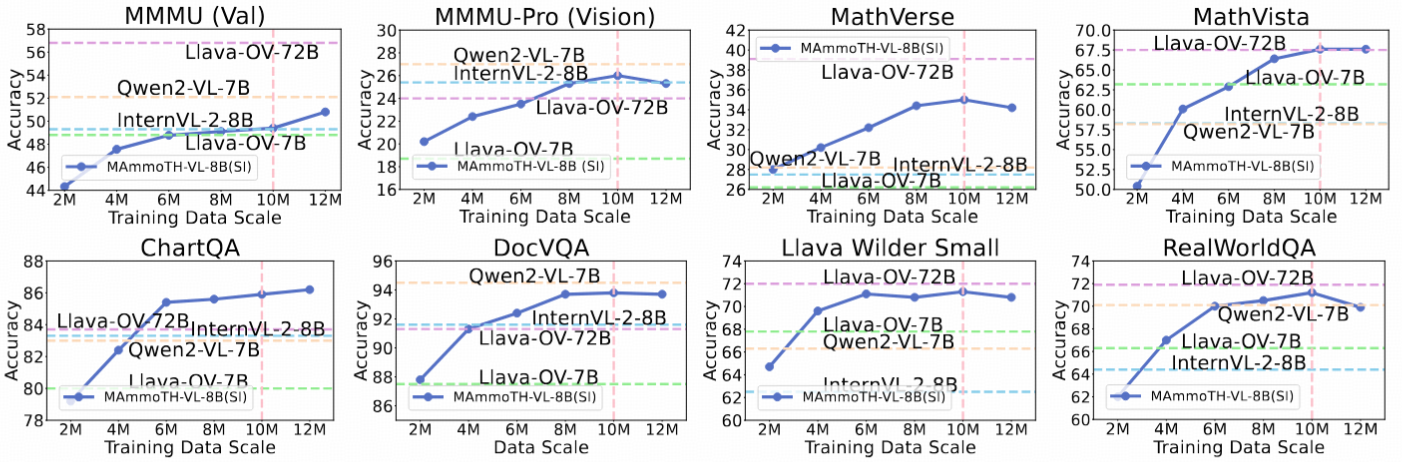
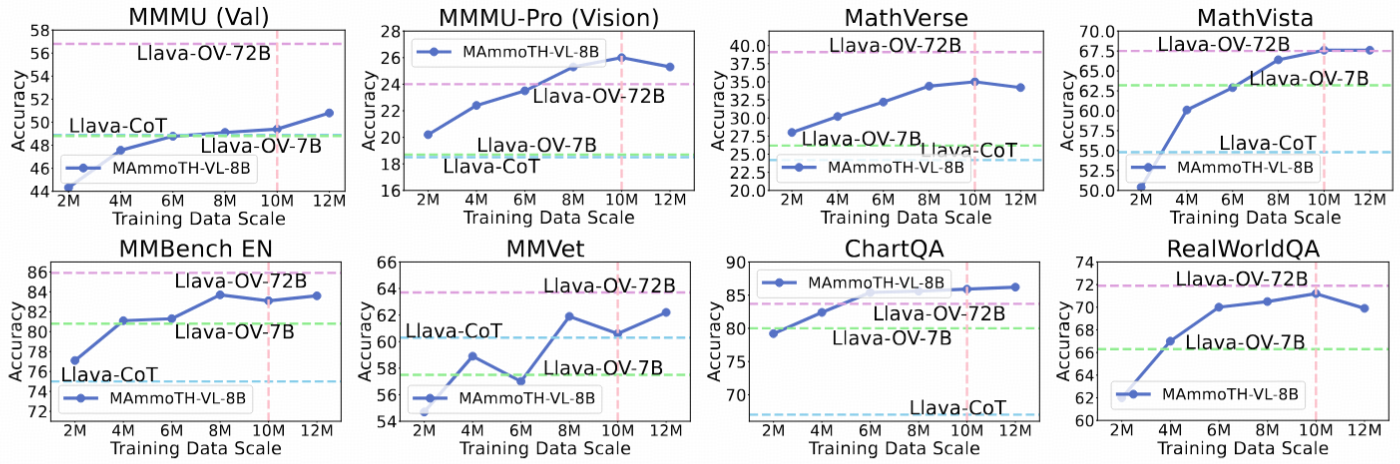
v1

Changed region(s): [[0.0, 0.5152, 1.0, 1.0], [0.0, 0.0, 1.0, 0.4848]]

diff --git a/index.html b/index.html
@@ -100,35 +100,35 @@
                     <div class="column has-text-centered">
                         <!-- <h1 class="title is-1 publication-title">🦣 MAmmoTH-VL: <br>Scaling Synthetic Multimodal Instruction Data with Open Models</h1> -->
                         <h1 class="title is-1 publication-title">
-                            <img src="static/images/mammoth_vl.png" alt="Mammoth Icon" style="vertical-align: -2px; width: 60px; height: 40px;"> MAmmoTH-VL: <br>Scaling Synthetic Multimodal Instruction Data with Open Models
+                            <img src="static/images/mammoth_vl.png" alt="Mammoth Icon" style="vertical-align: -2px; width: 60px; height: 40px;"> MAmmoTH-VL: <br>Eliciting Multimodal Reasoning with Instruction Tuning at Scale
                           </h1>
                           
                         <div class="is-size-5 publication-authors">
                             <!-- Paper authors -->
                 <span class="author-block">
-                    <sup>1</sup><a href="" target="_blank">Jarvis Guo</a><sup>*</sup>,</span>
+                    <a href="" target="_blank">Jarvis Guo</a><sup>♣*</sup>,</span>
                 <span class="author-block">
-                    <sup>1</sup><a href="" target="_blank">Tuney Zheng</a><sup>*</sup>,</span>
+                    <a href="" target="_blank">Tuney Zheng</a><sup>♣*</sup>,</span>
                 <span class="author-block">
-                        <sup>1</sup><a href="" target="_blank">Yuelin Bai</a>,</span>
+                        <a href="" target="_blank">Yuelin Bai</a><sup>♣</sup>,</span>
                 <span class="author-block">
-                        <sup>3</sup><a href="" target="_blank">Bo Li</a>
+                        <a href="" target="_blank">Bo Li</a><sup>△</sup>
                 </span>
                 <br>
                 <span class="author-block">
-                    <sup>4</sup><a href="" target="_blank">Yubo Wang</a>,</span>
+                    <a href="" target="_blank">Yubo Wang</a><sup>♡</sup>,</span>
                 <span class="author-block">
-                    <sup>1</sup><a href="" target="_blank">King Zhu</a>,</span>
+                    <a href="" target="_blank">King Zhu</a><sup>♣</sup>,</span>
                 <span class="author-block">
-                    <sup>5</sup><a href="" target="_blank">Yizhi Li</a>,
+                    <a href="" target="_blank">Yizhi Li</a><sup>♢</sup>,
                 </span>
                 <br>
                 <span class="author-block">
-                    <sup>2</sup><a href="" target="_blank">Graham Neubig</a>,</span>
+                    <a href="" target="_blank">Graham Neubig</a><sup>♠</sup>,</span>
                 <span class="author-block">
-                    <sup>4</sup><a href="https://wenhuchen.github.io/" target="_blank">Wenhu Chen</a>,</span>
+                    <a href="https://wenhuchen.github.io/" target="_blank">Wenhu Chen</a><sup>♡</sup>,</span>
                 <span class="author-block">
-                    <sup>2</sup><a href="https://xiangyue9607.github.io/" target="_blank">Xiang Yue</a>,
+                    <a href="https://xiangyue9607.github.io/" target="_blank">Xiang Yue</a><sup>♠†</sup>,
                 </span>
                         </div>
 
@@ -136,12 +136,12 @@
 
                 <div class="is-size-5 publication-authors">
                     <span class="author-block">
-                        <sup>1</sup>M-A-P,
-                        <sup>2</sup>Carnegie Mellon University,
-                        <sup>3</sup>Nanyang Technological University,
+                        <sup>♠</sup>Carnegie Mellon University,
+                        <sup>♣</sup>M-A-P,
+                        <sup>△</sup>Nanyang Technological University,
                         <br>
-                        <sup>4</sup>University of Waterloo,
-                        <sup>5</sup>The University of Manchester
+                        <sup>♡</sup>University of Waterloo,
+                        <sup>♢</sup>The University of Manchester
                         <br>
                     <!-- <span class="eql-cntrb"><small><sup>*</sup>Xiang Yue and Wenhu Chen are the leading authors of the project. They contributed equally to this project.</small></span> -->
                             <span class="author-block"><a href="mailto:xyue2@andrew.cmu.edu">xyue2@andrew.cmu.edu</a>
@@ -221,10 +221,9 @@
                 <div class="column has-text-centered">
                     <h2 class="title is-3">Abstract</h2>
                     <div class="content has-text-justified">
-                        <p>
-                            Multimodal Large Language Models (MLLMs) have integrated modality alignment and visual instruction tuning to excel in tasks like captioning and visual question-answering. Despite their potential, MLLMs often struggle with real-world applications due to the homogeneity and simplicity of training datasets. Addressing these challenges, we propose a simple, scalable yet effective approach that leverages open-source models for synthesizing high-quality, diverse instruction training data, aligning closely with human preferences and complex real-world scenarios. We introduce the MAmmoTH-VL-12M dataset, a collection of 12 million multimodal instructions, across 10 task-specific categories. Experimental results show that training an MLLM, MAmmoTH-VL-8B on this dataset enhances performance in various visual reasoning, OCR, chart understanding, document understanding, and interaction tasks. Our method demonstrates a cost-effective alternative for high-quality multimodal data creation in the open-source community.                        </p>
-
-<p>
+                            <p>
+                                Open-source multimodal large language models (MLLMs) have shown significant potential in a broad range of multimodal tasks. However, their reasoning capabilities remain constrained by existing instruction-tuning datasets, which were predominately repurposed from academic datasets such as VQA, AI2D, and ChartQA. These datasets target simplistic tasks, and only provide phrase-level answers without any intermediate rationales. To address these challenges, we introduce a \textit{scalable and cost-effective method} to construct a \textit{large-scale multimodal instruction-tuning dataset with rich intermediate rationales designed to elicit CoT reasoning}. Using only open models, we create a dataset containing 12M instruction-response pairs to cover diverse, reasoning-intensive tasks with detailed and faithful rationales. Experiments demonstrate that training MLLMs on this dataset significantly improves reasoning capabilities, achieving state-of-the-art performance on benchmarks such as MathVerse (+8.1%), MMMU-Pro (+7%), and MuirBench (+13.3%). Additionally, the model demonstrates notable improvements of up to 4% on non-reasoning-based benchmarks. Ablation studies further highlight the importance of key components, such as rewriting and self-filtering, in the dataset construction process.
+                            <p>
     <!-- Image1 carousel -->
         
     <!-- <section class="hero">
@@ -234,8 +233,8 @@
                     <div class="column is-four-fifths"> -->
                         <div class="item">
                             <img src="static/images/mammoth_vl_overview.png" alt="Hybrid Instruction Tuning of MAmmoTH2-Plus" style="width: 100%; height: auto;" />
-                            <h2 class="subtitle" style="font-size: 16px; text-align: center; color: #888888;font-weight: normal;">
-                                Figure 1: Overview of MAmmoTH-VL.
+                            <h2 class="subtitle" style="font-size: 16px; color: #888888;font-weight: normal;">
+                                Figure 1: Up shows overview of our simple but scalable visual instruction data rewriting pipeline, comprising three main steps. First, we manually collect and identify potential data sources. Second, we rewrite the original instruction data using open MLLMs and LLMs. Finally, we employ the same MLLM as a judge to filter the data. Below shows examples comparing pre- and post-rewriting results in two categories: Math and Caption, demonstrating how the pipeline transforms basic questions into detailed, step-by-step responses.
                             </h2>
                         </div>
                     <!-- </div>
@@ -317,16 +316,16 @@
                     
                     <div class="content has-text-justified">
                         <p>
-                            Existing efforts have demonstrated the potential of visual instruction tuning, they often rely on resource-intensive approaches, such as human annotations or proprietary models, limiting their scalability and accessibility, especially in open-source contexts. To solve this, we present a simple, scalable, and cost-effective data generation pipeline to construct 12M high-quality samples. Our approach includes three key steps: 
+                            While previous efforts have highlighted the potential of visual instruction tuning, many rely on resource-intensive methods such as human annotations or proprietary models. These approaches limit scalability and accessibility, particularly in open-source contexts. To address these challenges, we introduce a simple, scalable, and cost-effective data generation pipeline that produces 12 million high-quality samples. Our pipeline involves three key steps:    
                         </p>
                         <p>
-                            (1) comprehensive open-source data curation and categorization
+                            (1) open-source data collection and categorization
                         </p>
                         <p>
-                            (2) task-aware data augmentation and rewriting with open models
+                            (2) task-specific data augmentation and rewriting using open models
                         </p>
                         <p>
-                            (3) rigorous quality filtering to eliminate hallucinated or irrelevant content. 
+                            (3) quality filtering to remove hallucinated or irrelevant content
                         </p>
 <!-- Image3 carousel -->
     
@@ -339,7 +338,7 @@
                         <!-- Displaying an Image of Hybrid Instruction Tuning -->
                         <img src="static/images/mammoth_vl_12M.png" alt="Hybrid Instruction Tuning of MAmmoTH2-Plus" style="width: 100%; height: auto;" />
                         <h2 class="subtitle" style="font-size: 16px; text-align: center; color: #888888;font-weight: normal;">
-                            Figure 2: Overview of MAmmoTH-VL-12M.
+                            Figure 2: The data distribution of MAmmoTH-VL-Instruct (12M). Left: Category distribution. Right: Details of data sources.
                         </h2>
                     </div>
                 <!-- </div>
@@ -359,7 +358,7 @@
                     
                     <div class="content has-text-justified">
                         <p>
-                            To reveal the generality and effectiveness of model, we comprehensively evaluate our model across different modalities, including single-image, multi-image, and video benchmarks.We denote the model checkpoint trained after the single-image stage and one-vision stage as MAmmoTH-VL-8B(SI) and MAmmoTH-VL-8B.We conduct standardized, reproducible evaluations of our model across all benchmarks using LMMs-Eval. To ensure a fair comparison with other MLLMs, we primarily report results from the original papers. When results are unavailable, we onboard the models in LMMs-Eval and evaluate them using consistent settings. All results are reported using greedy decoding and zero-shot settings unless otherwise specified.    
+                            To reveal the generality and effectiveness of the model, we comprehensively evaluate it across different scenarios, including single-image, multi-image, and video benchmarks. Detailed results are presented in Table 1, Table 2 and Table 3, respectively. We denote the model checkpoint that completed the single-image stage and one-vision stage as MAmmoTH-VL-8B (SI) and MAmmoTH-VL-8B. We conduct standardized, reproducible evaluations of our model across all 23 benchmarks using LMMs-Eval. To ensure a fair comparison with other MLLMs, we primarily report results from the original papers. When results are unavailable, we onboard the models in LMMs-Eval and evaluate them using consistent settings. All results are reported using greedy decoding and zero-shot settings unless specified.
                         </p>
 <!-- Image3 carousel -->
 
@@ -394,17 +393,6 @@
             <td style="text-align: center;">50.2</td>
             <td style="text-align: center;">63.8</td>
         </tr>
-        <!-- <tr style="background-color: #f2f2f2;">
-            <td>GPT-4v</td>
-            <td style="text-align: center;">57.1</td>
-            <td style="text-align: center;">56.8</td>
-            <td style="text-align: center;">-</td>
-            <td style="text-align: center;">49.9</td>
-            <td style="text-align: center;">77.0</td>
-            <td style="text-align: center;">58.6</td>
-            <td style="text-align: center;">32.8</td>
-            <td style="text-align: center;">49.9</td>
-        </tr> -->
         <tr style="background-color: #f2f2f2;">
             <td>Gemini-1.5-Pro</td>
             <td style="text-align: center;">59.1</td>
@@ -453,7 +441,7 @@
             <td style="text-align: center;">70.5</td>
         </tr>
         <tr style="background-color: #e0f7e0;">
-            <td>LLaVA-OV-72B(Single Image)</td>
+            <td>LLaVA-OV-72B (SI)</td>
             <td style="text-align: center;">65.2</td>
             <td style="text-align: center;">57.4</td>
             <td style="text-align: center;">26.0</td>
@@ -500,6 +488,17 @@
             <td style="text-align: center;">59.6</td>
         </tr>
         <tr style="background-color: #cce0ff;">
+            <td>Llama-3.2-11B-Vision-Ins</td>
+            <td style="text-align: center;">49.8</td>
+            <td style="text-align: center;">50.7</td>
+            <td style="text-align: center;">23.7</td>
+            <td style="text-align: center;">72.7</td>
+            <td style="text-align: center;">73.2</td>
+            <td style="text-align: center;">57.6</td>
+            <td style="text-align: center;">23.6</td>
+            <td style="text-align: center;">51.5</td>
+        </tr>
+        <tr style="background-color: #cce0ff;">
             <td>InternVL-2-8B</td>
             <td style="text-align: center;">59.4</td>
             <td style="text-align: center;">49.3</td>
@@ -511,7 +510,7 @@
             <td style="text-align: center;">58.3</td>
         </tr>
         <tr style="background-color: #cce0ff;">
-            <td>Qwen2-VL-7B</td>
+            <td>Qwen2-VL-7B-Ins</td>
             <td style="text-align: center;">60.7</td>
             <td style="text-align: center;">52.1</td>
             <td style="text-align: center;">26.9</td>
@@ -531,6 +530,17 @@
             <td style="text-align: center;">48</td>
             <td style="text-align: center;">-</td>
             <td style="text-align: center;">49.0</td>
+        </tr>
+        <tr style="background-color: #e0f7e0;">
+            <td>Llava-CoT-11B</td>
+            <td style="text-align: center;">57.6</td>
+            <td style="text-align: center;">48.9</td>
+            <td style="text-align: center;">18.5</td>
+            <td style="text-align: center;">75.2</td>
+            <td style="text-align: center;">75.0</td>
+            <td style="text-align: center;">60.3</td>
+            <td style="text-align: center;">24.2</td>
+            <td style="text-align: center;">54.8</td>
         </tr>
         <tr style="background-color: #e0f7e0;">
             <td>Molmo-7B-D</td>
@@ -591,15 +601,15 @@
             <td style="text-align: center;">67.6</td>
         </tr>
         <tr style="background-color: #E0FFFF;">
-            <td>∆ Over Best Open-Source</td>
-            <td style="text-align: center;">+1.3</td>
-            <td style="text-align: center;">+2.0</td>
-            <td style="text-align: center;">+7.1</td>
-            <td style="text-align: center;">+0.6</td>
-            <td style="text-align: center;">+2.6</td>
-            <td style="text-align: center;">+3.7</td>
-            <td style="text-align: center;">+8.1</td>
-            <td style="text-align: center;">+4.4</td>
+            <td>∆ Over Best Open-Source<br>(~10B Scale)</td>
+            <td style="text-align: center;vertical-align: middle">+1.3</td>
+            <td style="text-align: center;vertical-align: middle">+2.0</td>
+            <td style="text-align: center;vertical-align: middle">+7.1</td>
+            <td style="text-align: center;vertical-align: middle">+0.6</td>
+            <td style="text-align: center;vertical-align: middle">+2.6</td>
+            <td style="text-align: center;vertical-align: middle">+3.7</td>
+            <td style="text-align: center;vertical-align: middle">+8.1</td>
+            <td style="text-align: center;vertical-align: middle">+4.4</td>
         </tr>
                 
     </tbody>
@@ -638,16 +648,6 @@
             <td style="text-align: center;">89.4</td>
             <td style="text-align: center;">85.9</td>
         </tr>
-        <!-- <tr style="background-color: #f2f2f2;">
-            <td>GPT-4v</td>
-            <td style="text-align: center;">78.2</td>
-            <td style="text-align: center;">78.5</td>
-            <td style="text-align: center;">75.1</td>
-            <td style="text-align: center;">88.4</td>
-            <td style="text-align: center;">61.4</td>
-            <td style="text-align: center;">80.0</td>
-            <td style="text-align: center;">81.0</td>
-        </tr> -->
         <tr style="background-color: #f2f2f2;">
             <td>Gemini-1.5-Pro</td>
             <td style="text-align: center;">94.4</td>
@@ -692,7 +692,7 @@
             <td style="text-align: center;">-</td>
         </tr>
         <tr style="background-color: #e0f7e0;">
-            <td>LLaVA-OV-72B(Single Image)</td>
+            <td>LLaVA-OV-72B (SI)</td>
             <td style="text-align: center;">85.1</td>
             <td style="text-align: center;">84.9</td>
             <td style="text-align: center;">74.6</td>
@@ -735,6 +735,16 @@
             <td style="text-align: center;">61.4</td>
         </tr>
         <tr style="background-color: #cce0ff;">
+            <td>Llama-3.2-11B-Vision-Ins</td>
+            <td style="text-align: center;">77.3</td>
+            <td style="text-align: center;">83.4</td>
+            <td style="text-align: center;">65.0</td>
+            <td style="text-align: center;">88.4</td>
+            <td style="text-align: center;">63.3</td>
+            <td style="text-align: center;">49.7</td>
+            <td style="text-align: center;">62.0</td>
+        </tr>
+        <tr style="background-color: #cce0ff;">
             <td>InternVL-2-8B</td>
             <td style="text-align: center;">83.8</td>
             <td style="text-align: center;">83.3</td>
@@ -745,7 +755,7 @@
             <td style="text-align: center;">62.5</td>
         </tr>
         <tr style="background-color: #cce0ff;">
-            <td>Qwen2-VL-7B</td>
+            <td>Qwen2-VL-7B-Ins</td>
             <td style="text-align: center;">83.0</td>
             <td style="text-align: center;">83.0</td>
             <td style="text-align: center;">76.5</td>
@@ -763,6 +773,16 @@
             <td style="text-align: center;">64.2</td>
             <td style="text-align: center;">-</td>
             <td style="text-align: center;">-</td>
+        </tr>
+        <tr style="background-color: #e0f7e0;">
+            <td>Llava-CoT-11B</td>
+            <td style="text-align: center;">-</td>
+            <td style="text-align: center;">67.0</td>
+            <td style="text-align: center;">44.8</td>
+            <td style="text-align: center;">-</td>
+            <td style="text-align: center;">-</td>
+            <td style="text-align: center;">-</td>
+            <td style="text-align: center;">65.3</td>
         </tr>
         <tr style="background-color: #e0f7e0;">
             <td>Molmo-7B-D</td>
@@ -818,14 +838,14 @@
             <td style="text-align: center;">70.8</td>
         </tr>
         <tr style="background-color: #E0FFFF;">
-            <td>∆ Over Best Open-Source</td>
-            <td style="text-align: center;">+2.4</td>
-            <td style="text-align: center;">+2.1</td>
-            <td style="text-align: center;">+2.2</td>
-            <td style="text-align: center;">+1.6</td>
-            <td style="text-align: center;">+0.6</td>
-            <td style="text-align: center;">-1.9</td>
-            <td style="text-align: center;">+2.2</td>
+            <td>∆ Over Best Open-Source<br>(~10B Scale)</td>
+            <td style="text-align: center;vertical-align: middle">+2.4</td>
+            <td style="text-align: center;vertical-align: middle">+2.1</td>
+            <td style="text-align: center;vertical-align: middle">+2.2</td>
+            <td style="text-align: center;vertical-align: middle">+1.6</td>
+            <td style="text-align: center;vertical-align: middle">+0.6</td>
+            <td style="text-align: center;vertical-align: middle">-1.9</td>
+            <td style="text-align: center;vertical-align: middle">+2.2</td>
         </tr>
                 
     </tbody>
@@ -913,7 +933,7 @@
             <td style="text-align: center;">54.0</td>
         </tr>
         <tr style="background-color: #cce0ff;">
-            <td>Qwen2-VL-7B</td>
+            <td>Qwen2-VL-7B-Ins</td>
             <td style="text-align: center;">41.6</td>
             <td style="text-align: center;">36.0</td>
             <td style="text-align: center;">66.7</td>
@@ -960,15 +980,15 @@
             <td style="text-align: center;">58.8</td>
         </tr>
         <tr style="background-color: #E0FFFF;">
-            <td>∆ Over Best Open-Source</td>
-            <td style="text-align: center;">+13.3</td>
-            <td style="text-align: center;">+4.3</td>
-            <td style="text-align: center;">-1.6</td>
-            <td style="text-align: center;">+2.2</td>
-            <td style="text-align: center;">+0.2</td>
-            <td style="text-align: center;">+0</td>
-            <td style="text-align: center;">+2.4</td>
-            <td style="text-align: center;">+0.6</td>
+            <td>∆ Over Best Open-Source<br>(~10B Scale)</td>
+            <td style="text-align: center;vertical-align: middle">+13.3</td>
+            <td style="text-align: center;vertical-align: middle">+4.3</td>
+            <td style="text-align: center;vertical-align: middle">-1.6</td>
+            <td style="text-align: center;vertical-align: middle">+2.2</td>
+            <td style="text-align: center;vertical-align: middle">+0.2</td>
+            <td style="text-align: center;vertical-align: middle">+0</td>
+            <td style="text-align: center;vertical-align: middle">+2.4</td>
+            <td style="text-align: center;vertical-align: middle">+0.6</td>
         </tr>
                 
     </tbody>
@@ -988,7 +1008,7 @@
                     
                     <div class="content has-text-justified">
                         <p>
-                            To further investigate the impact of dataset size on model performance, we analyze the Stage-2 training stage for single-image. Figure 3 shows the model's overall performance across 8 benchmarks as the training dataset size increases, with each node representing 2 million data points. The results are compared against those of Qwen2-VL-8B, InternVL2-8B, and LLaVA-OneVision-8B. This trend clearly demonstrates that expanding the scale of instruction data has a significant positive effect on model performance. This observation suggests that as more diverse instruction data is introduced, the model’s ability to handle complex tasks is enhanced.
+                            As shown in Figure 3, performance is tracked across benchmarks with training dataset size increasing in 2-million-sample intervals. Results are compared to three leading models: Llava-OneVision-7B & 72B and Llava-CoT. The findings demonstrate a positive correlation between training data scale and performance, indicating that diverse instruction data improves the model's ability to handle complex tasks. 
                         </p>
 
 <!-- <section class="hero">
@@ -999,8 +1019,8 @@
                     <div class="item">
                         <!-- Displaying an Image of Hybrid Instruction Tuning -->
                         <img src="static/images/mammoth_vl_scale.png" alt="Hybrid Instruction Tuning of MAmmoTH2-Plus" style="width: 100%; height: auto;" />
-                        <h2 class="subtitle" style="font-size: 16px; text-align: center; color: #888888;font-weight: normal;">
-                            Figure 3: Scaling effect of MAmmoTH-VL-8B on 8 representative datasets.
+                        <h2 class="subtitle" style="font-size: 16px; color: #888888;font-weight: normal;">
+                            Figure 3: Scaling effects of MAmmoTH-VL-8B on eight multimodal evaluation datasets. A simple rewriting approach using open models improves the quality of visual instruction data by eliciting chain-of-thought (CoT) reasoning. Training on this rewritten data demonstrates significant performance gains through increased model scale. Llava-OneVision-7B & 72B and Llava-CoT are included as references.
                         </h2>
                     </div>
                 <!-- </div>
@@ -1020,10 +1040,9 @@
                     
                     <div class="content has-text-justified">
                         <p>
-                            To verify the impact of model size on the quality of rewritten data, we conduct experiments by training four models with 500K data: first trained on the original dataset, second on the dataset rewritten by InternVL2-Llama3-76B and Qwen2.5-72B-Instruct, third on the dataset rewritten by Qwen2-VL-7B-Instruct and Qwen2.5-7B-Instruct, fourth on the dataset rewritten by InternVL2-8B and InternLM2-5-7B. Qwen2.5-72B-Instruct, Qwen2.5-7B-Instruct and InternLM2-5-7B are only used for rewriting caption data. Qwen2-VL-72B-Instruct, Qwen2-VL-7B-Instruct and InternVL2-8B are used for data filtering.
-                        </p>
+                            To assess the effect of model size on the quality of rewritten data, we conduct experiments using four models trained on a dataset of 500K samples. The first model is trained on the original dataset. The second model use data rewritten by InternVL2-Llama3-76B and Meta-Llama-3-70B-Instruct. The third model is trained on data rewritten by Qwen2-VL-7B-Instruct and Qwen2.5-7B-Instruct. The fourth model is trained on data rewritten by InternVL2-8B and InternLM2.5-7B. Among these, Qwen2.5-72B-Instruct, Qwen2.5-7B-Instruct, and InternLM2.5-7B are employed solely for rewriting caption data, while InternVL2-Llama3-76B, Qwen2-VL-7B-Instruct, and InternVL2-8B are used for data filtering.                        </p>
                         <p>
-                            The results in Figure 4 show that model trained on data rewritten based on 7B-similar-size model performs better in knowledge & reasoning and multi-interact & preference compared to the original data. However, its performance in chart & doc tasks is slightly worse, which may be due to the small model's inherent limitations in recognizing fine details in document-like images.
+                            As shown in Figure 4, our analysis reveals distinct patterns in model performance across different task categories. For knowledge & reasoning tasks, models trained on data rewritten by smaller models (approximately 7B parameters) achieve performance comparable to those using larger model rewrites. However, the impact of data rewriting varies significantly by task type. For chart and document-related tasks, rewriting with smaller models actually leads to performance degradation, while larger models provide modest improvements. This suggests that sophisticated visual understanding capabilities of larger models are crucial for effectively rewriting such data. In contrast, Multi Interact & Preference tasks demonstrate a clear correlation with model scale, where larger models excel in handling these complex scenarios that demand subtle understanding and nuanced preference modeling.
                         </p>
 
 <!-- <section class="hero">
